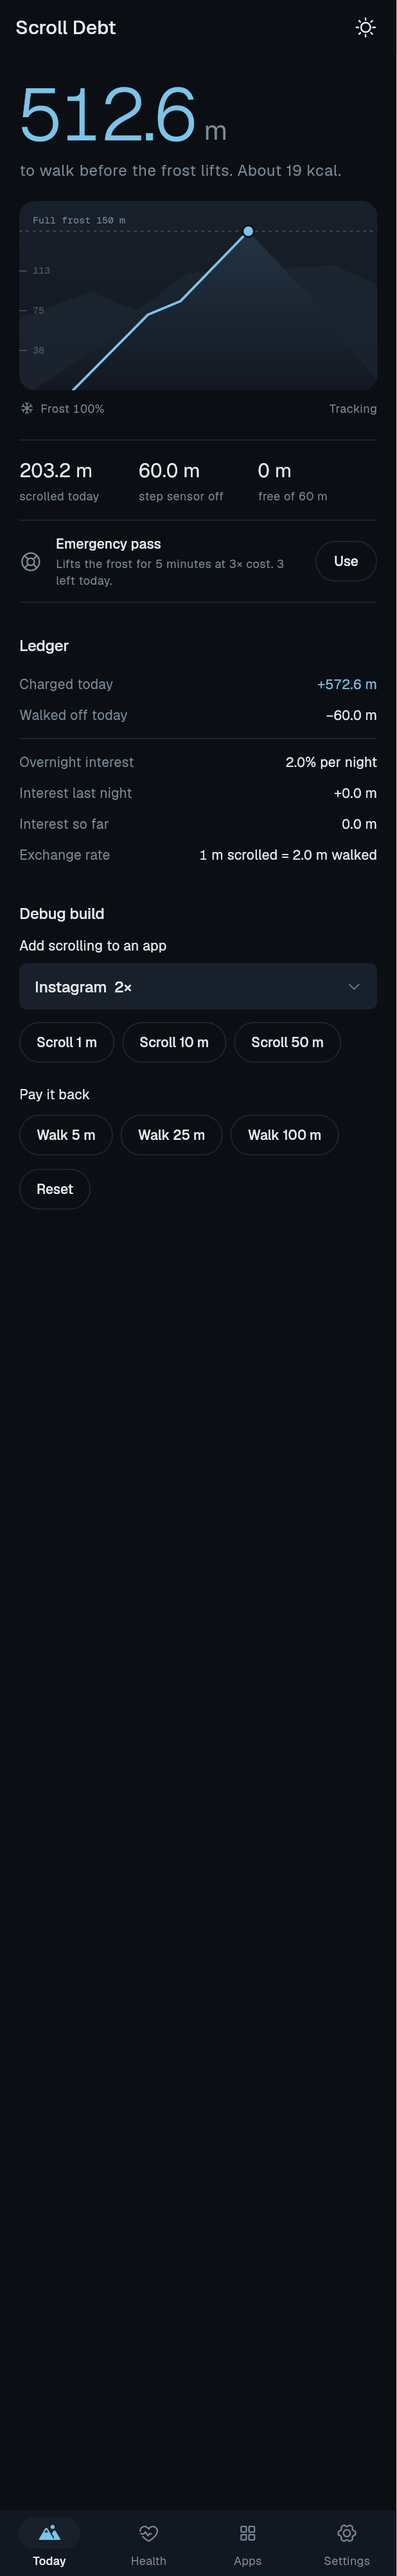
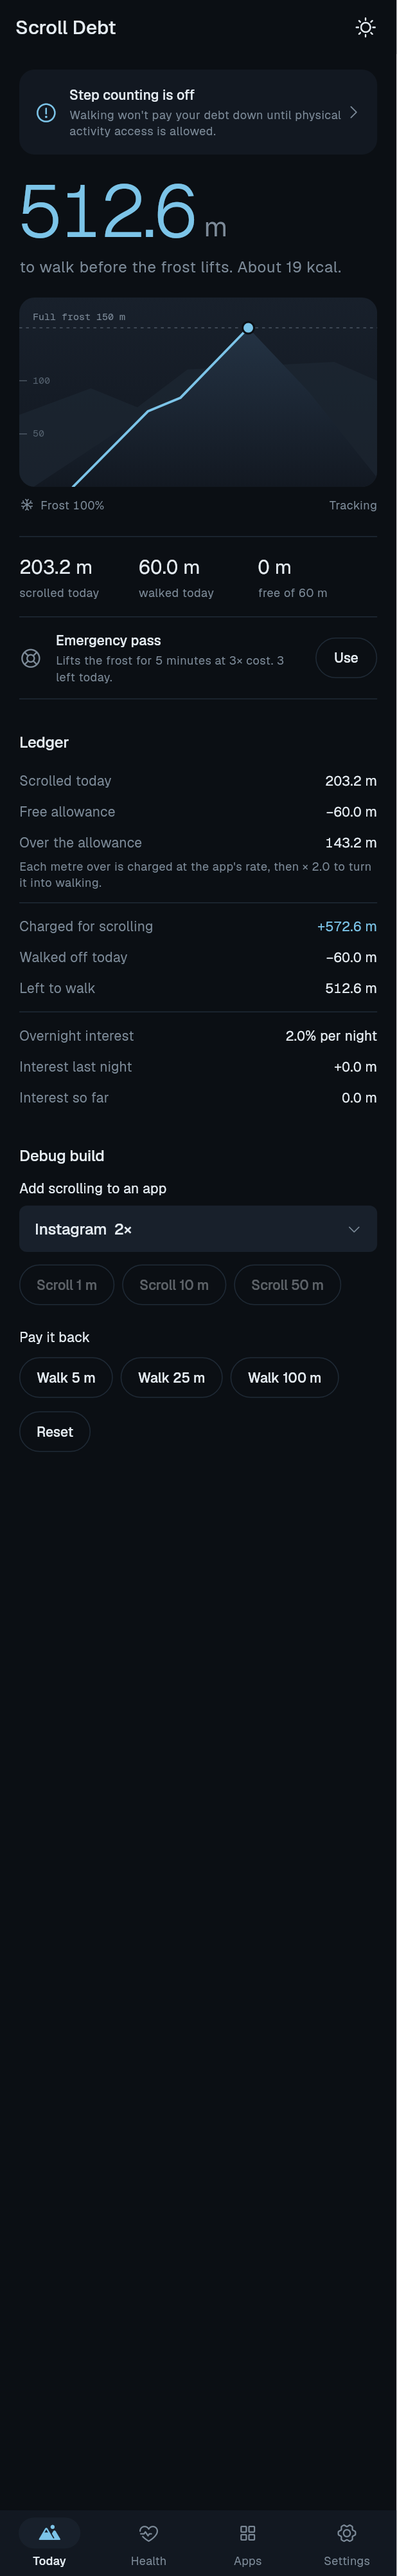
Fix confusing home stats: walked label, ledger sum, gauge ticks
- The walked stat is always labelled 'walked today'; a disabled step
  counter now gets its own notice at the top, like scroll measuring.
- The ledger reads as a sum that ends at the hero number: scrolled,
  free allowance, over the allowance (with how it is priced), then
  carried over + charged - walked = left to walk.
- Gauge ticks use round 1/2/5 steps (50, 100 under 150 m) instead of
  quarters (38, 75, 113).

Claude-Session: https://claude.ai/code/session_01VuuPe1ZfiaRus7cUJhEEFG

diff --git a/lib/ui/home_screen.dart b/lib/ui/home_screen.dart
@@ -85,7 +85,16 @@ class _HomeScreenState extends ConsumerState<HomeScreen> with WidgetsBindingObse
         index: _tab,
         children: [
           page([
-            if (!c.status.accessibilityEnabled) const _TrackingOff(),
+            if (!c.status.accessibilityEnabled)
+              const _Notice(
+                title: 'Scroll measuring is off',
+                body: 'Time without tracking is charged at your average scroll rate.',
+              ),
+            if (c.walkError != null)
+              const _Notice(
+                title: 'Step counting is off',
+                body: 'Walking won\'t pay your debt down until physical activity access is allowed.',
+              ),
             const SizedBox(height: 20),
             _Hero(c: c),
             const SizedBox(height: 20),
@@ -142,8 +151,11 @@ class _HomeScreenState extends ConsumerState<HomeScreen> with WidgetsBindingObse
   }
 }
 
-class _TrackingOff extends StatelessWidget {
-  const _TrackingOff();
+/// A tappable problem that blocks part of the loop; opens setup to fix it.
+class _Notice extends StatelessWidget {
+  const _Notice({required this.title, required this.body});
+  final String title;
+  final String body;
 
   @override
   Widget build(BuildContext context) {
@@ -164,9 +176,9 @@ class _TrackingOff extends StatelessWidget {
               const SizedBox(width: 12),
               Expanded(
                 child: Column(crossAxisAlignment: CrossAxisAlignment.start, children: [
-                  Text('Scroll measuring is off', style: t.titleSmall),
+                  Text(title, style: t.titleSmall),
                   const SizedBox(height: 2),
-                  Text('Time without tracking is charged at your average scroll rate.', style: t.bodySmall),
+                  Text(body, style: t.bodySmall),
                 ]),
               ),
               Icon(Ph.caretRight, size: 18, color: context.colors.muted),
@@ -370,7 +382,7 @@ class _Stats extends StatelessWidget {
         padding: const EdgeInsets.symmetric(vertical: 16),
         child: Row(children: [
           stat(formatMetres(c.state.scrolledTodayM), 'scrolled today'),
-          stat(formatMetres(c.state.walkedTodayM), c.walkError == null ? 'walked today' : 'step sensor off'),
+          stat(formatMetres(c.state.walkedTodayM), 'walked today'),
           stat(formatMetres(c.allowanceLeftM, decimals: 0),
               'free of ${formatMetres(c.config.effective.allowanceM, decimals: 0)}'),
         ]),
@@ -569,18 +581,38 @@ class _Ledger extends StatelessWidget {
             Text(b, style: numeric.copyWith(fontSize: 14, color: color ?? context.colors.text)),
           ]),
         );
+    // Reads top to bottom as a sum that ends at the hero number:
+    // carried + scrolling + gaps − walked = to walk.
+    final scrollChargedM = s.chargedTodayM - s.tamperChargedTodayM;
+    final overM = s.scrolledTodayM - s.allowanceUsedM;
+    final carriedM = s.debtM - s.chargedTodayM + s.paidTodayM;
     return Column(crossAxisAlignment: CrossAxisAlignment.start, children: [
-      line('Charged today', '+${formatMetres(s.chargedTodayM)}', color: context.colors.accent),
-      line('Walked off today', '−${formatMetres(s.paidTodayM)}'),
+      line('Scrolled today', formatMetres(s.scrolledTodayM)),
+      line('Free allowance', '−${formatMetres(s.allowanceUsedM)}'),
+      line('Over the allowance', formatMetres(overM)),
+      Padding(
+        padding: const EdgeInsets.only(bottom: 4),
+        child: Text(
+          'Each metre over is charged at the app\'s rate, then × ${cfg.effective.ratio.toStringAsFixed(1)} '
+          'to turn it into walking.',
+          style: t.bodySmall,
+        ),
+      ),
+      const SizedBox(height: 8),
+      const Divider(),
+      const SizedBox(height: 8),
+      if (carriedM >= 0.05) line('Carried over', '+${formatMetres(carriedM)}'),
+      line('Charged for scrolling', '+${formatMetres(scrollChargedM)}', color: context.colors.accent),
       if (s.tamperChargedTodayM > 0)
         line('Charged for tracking gaps', '+${formatMetres(s.tamperChargedTodayM)}', color: context.colors.accent),
+      line('Walked off today', '−${formatMetres(s.paidTodayM)}'),
+      line('Left to walk', formatMetres(s.debtM), color: context.colors.text),
       const SizedBox(height: 8),
       const Divider(),
       const SizedBox(height: 8),
       line('Overnight interest', '${(cfg.interestRate * 100).toStringAsFixed(1)}% per night'),
       line('Interest last night', '+${formatMetres(s.lastInterestM)}'),
       line('Interest so far', formatMetres(s.interestTotalM)),
-      line('Exchange rate', '1 m scrolled = ${cfg.effective.ratio.toStringAsFixed(1)} m walked'),
       if (c.gaps.isNotEmpty) ...[
         const SizedBox(height: 8),
         const Divider(),

diff --git a/lib/ui/altitude_gauge.dart b/lib/ui/altitude_gauge.dart
@@ -1,3 +1,4 @@
+import 'dart:math' as math;
 import 'dart:ui' as ui;
 
 import 'package:flutter/material.dart';
@@ -24,6 +25,14 @@ class AltitudeGauge extends StatelessWidget {
           size: Size.infinite,
         ),
       );
+}
+
+/// Largest 1/2/5 × 10ⁿ step that puts about three ticks under [max].
+double niceTickStep(double max) {
+  if (max <= 0) return 0;
+  final raw = max / 3;
+  final mag = math.pow(10, (math.log(raw) / math.ln10).floor()).toDouble();
+  return [5.0, 2.0, 1.0].map((k) => k * mag).firstWhere((s) => s <= raw, orElse: () => mag);
 }
 
 class _GaugePainter extends CustomPainter {
@@ -87,10 +96,12 @@ class _GaugePainter extends CustomPainter {
 
     if (showScale) {
       _label(canvas, 'Full frost ${frostMaxM.toStringAsFixed(0)} m', Offset(14, frostY - 18), c.muted);
-      for (var i = 1; i < 4; i++) {
-        final y = base - (base - frostY) * i / 4;
+      // Round ticks (50, 100 under a 150 m summit), never crowding the summit label.
+      final step = niceTickStep(frostMaxM);
+      for (var m = step; step > 0 && m < frostMaxM * 0.9; m += step) {
+        final y = base - (base - frostY) * m / frostMaxM;
         canvas.drawLine(Offset(0, y), Offset(8, y), dash);
-        _label(canvas, (frostMaxM * i / 4).toStringAsFixed(0), Offset(14, y - 7), c.faint);
+        _label(canvas, m.toStringAsFixed(m % 1 == 0 ? 0 : 1), Offset(14, y - 7), c.faint);
       }
     }
 

diff --git a/test/gauge_ticks_test.dart b/test/gauge_ticks_test.dart
@@ -1,0 +1,12 @@
+import 'package:flutter_test/flutter_test.dart';
+import 'package:scrolldebt/ui/altitude_gauge.dart';
+
+void main() {
+  test('gauge ticks land on round numbers', () {
+    expect(niceTickStep(150), 50); // 50, 100 under the summit
+    expect(niceTickStep(15), 5); // demo mode
+    expect(niceTickStep(60), 20);
+    expect(niceTickStep(400), 100);
+    expect(niceTickStep(0), 0);
+  });
+}
